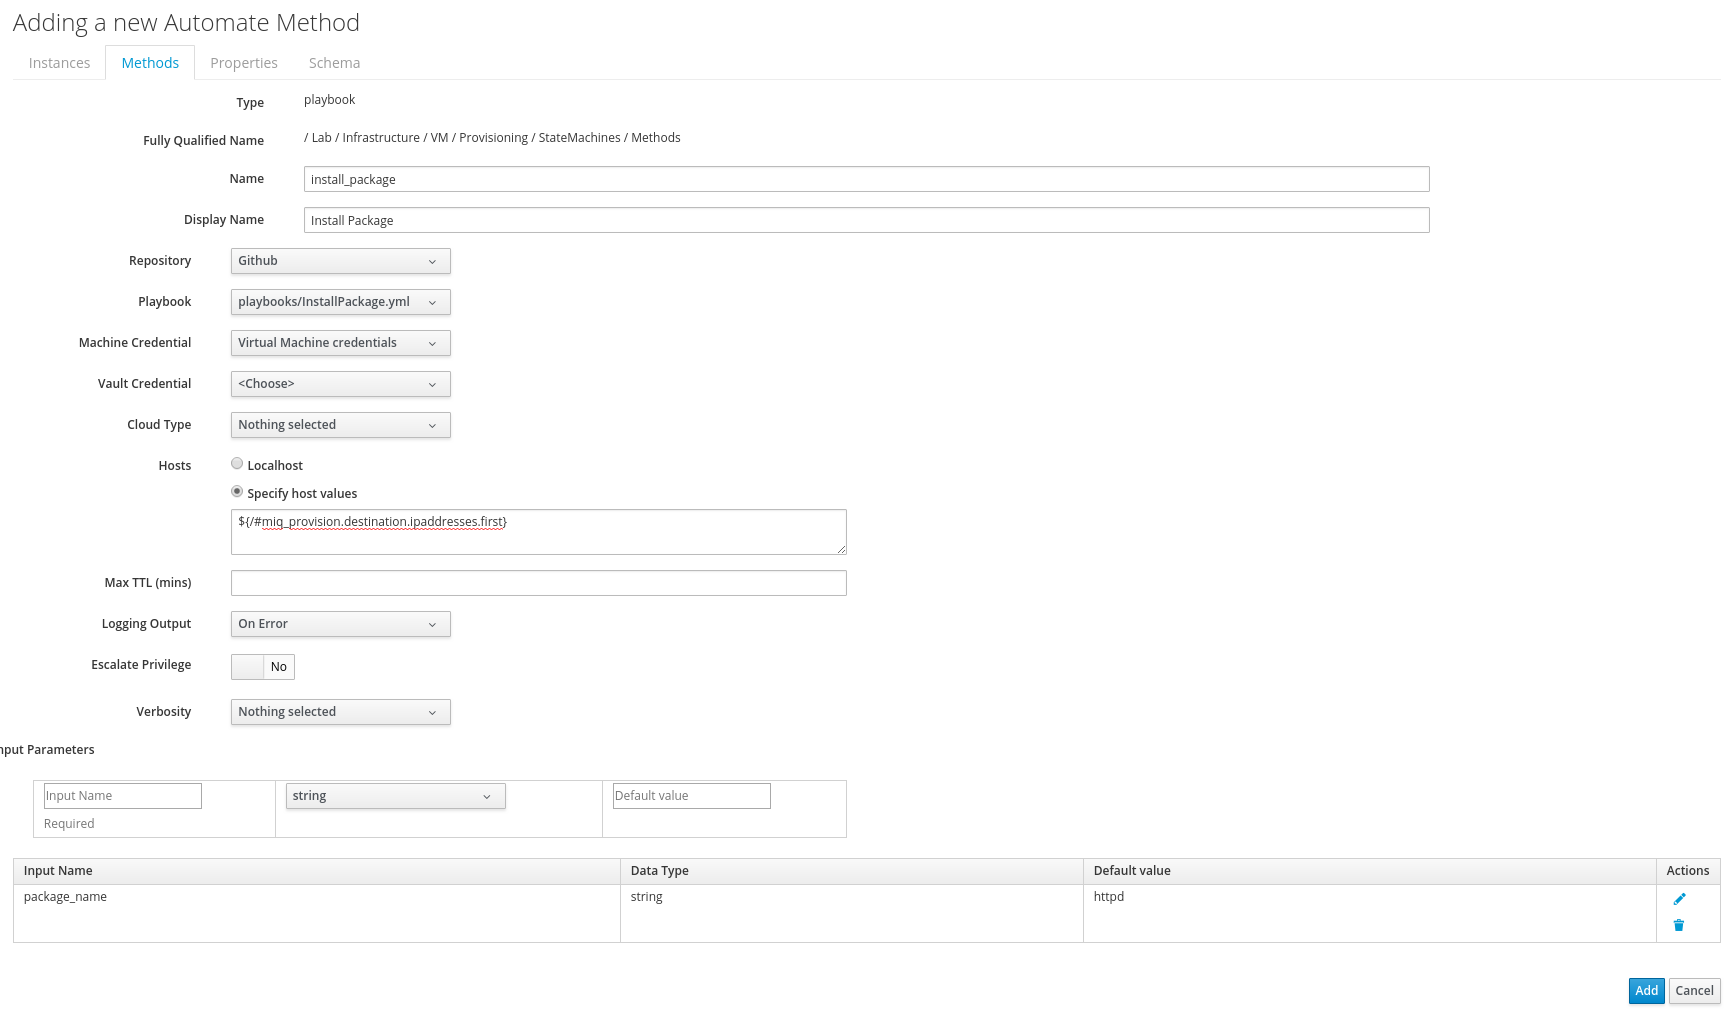
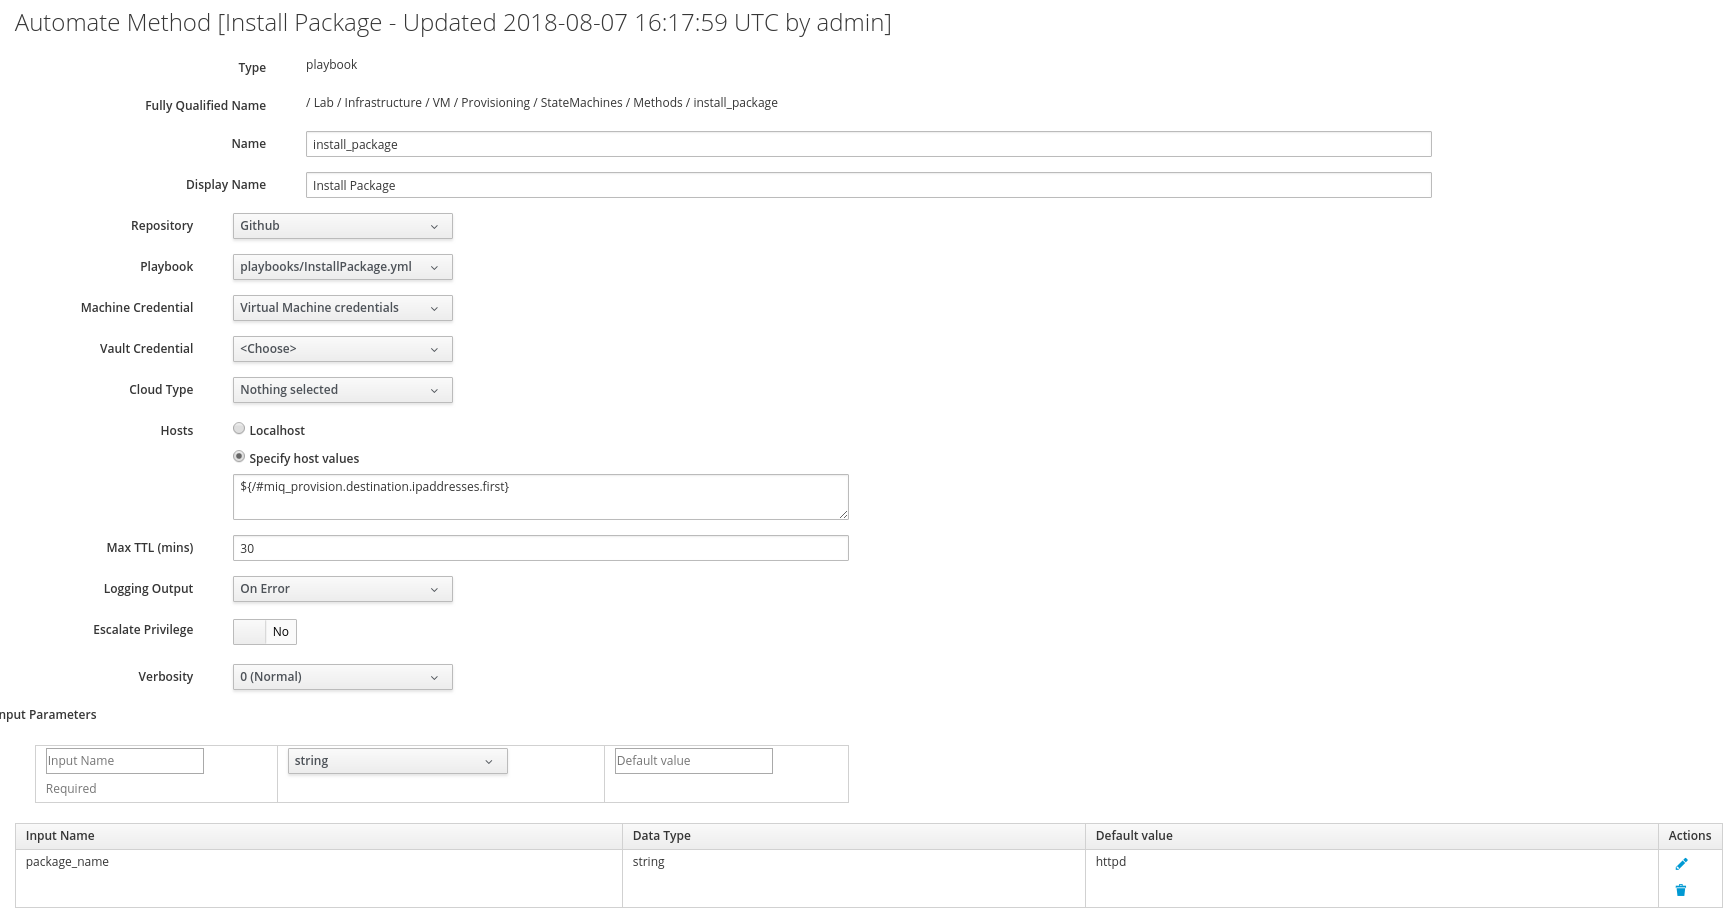
adding more details

diff --git a/cloudforms-and-ansible-better-together/lab/index.md b/cloudforms-and-ansible-better-together/lab/index.md
@@ -35,6 +35,12 @@
         - [Create improved Service Catalog Item](#create-improved-service-catalog-item)
         - [Update the Button definition](#update-the-button-definition)
         - [Test the improved Button](#test-the-improved-button)
+    - [Run an Ansible Playbook during VM provisioning](#run-an-ansible-playbook-during-vm-provisioning)
+        - [Create a new Automate Domain](#create-a-new-automate-domain)
+        - [Copy VM Provisioning State Machine](#copy-vm-provisioning-state-machine)
+        - [Copy CheckProvisioned Method](#copy-checkprovisioned-method)
+        - [Create the Ansible Playbook Method](#create-the-ansible-playbook-method)
+        - [Modify the Schema](#modify-the-schema)
     - [Build a Service Catalog to create and delete users](#build-a-service-catalog-to-create-and-delete-users)
         - [Create a Service Catalog Item for the Playbook](#create-a-service-catalog-item-for-the-playbook)
         - [Order the "create user" Service Catalog Item](#order-the-create-user-service-catalog-item)
@@ -999,6 +1005,158 @@ As the last step, we have to change the definition of our button, to point to th
 This concludes this part of the Ansible lab.
 
 :+1: ***OPTIONAL*** Feel free to repeat this part of the lab with a different package name. You could use "screen" as an example instead of httpd - or some other package you want to install.
+
+## Run an Ansible Playbook during VM provisioning
+
+With the integration of Ansible into CloudForms, we want to make it easier for customers and partners to modify out of the box behavior and make it easy to integrate with third party solutions.
+
+In this part of the lab, we want to run an Ansible Playbook during VM provisioning to show how to modify the State Machine and how we can use Ansible Playbooks.
+
+### Create a new Automate Domain
+
+Since the Automate Domains shipped with CloudForms are read only, we have to create our own Domain first.
+
+1. Navigate to ***Automation*** -> ***Automate***
+
+    ![Navigate to Automate](../../common/img/navigate-to-automate.png)
+
+1. Click on ***Configuration*** -> ***Add a new Domain***
+
+    ![add new automate domain](../../common/img/add-new-automate-domain.png)
+
+1. Enter the following details:
+
+    ***Name:*** Lab
+
+    ***Description:*** Lab Domain
+
+    ***Enabled:*** Check
+
+    ![add new lab domain](../../common/img/add-new-lab-automate-domain.png)
+
+1. Click ***Add***
+
+### Copy VM Provisioning State Machine
+
+To be able to make changes to the State Machine, we have to copy it to our writeable Domain first.
+
+1. Navigate to the VM Provisioning State Machine:
+
+    ***ManageIQ*** -> ***Infrastructure*** -> ***VM*** -> ***Provisioning*** -> ***StateMachines*** -> ***VMProvision_VM*** -> ***Provision VM from Template (template)***
+
+    ![navigate to provision from template](../../common/img/navigate-to-provision-vm-from-template.png)
+
+1. Click on ***Configuration*** -> ***Copy this Instance***
+
+    ![copy provision from template instance](../../common/img/copy-provivision-vm-from-template-instance.png)
+
+    :warning: ***WARNING*** Make sure you highlight the "Provision VM from Template (template)" instance when initiating the copy!
+
+1. Accept the defaults when confirming the copy
+
+    ![copy prevision from](../../common/img/copy-provision-instance.png)
+
+1. Click ***Copy*** to confirm
+
+1. After the copy was completed, you should see a confirmation page
+
+    ![confirmation of copy](../../common/img/confirmation-copy-provision-instance.png)
+
+### Copy CheckProvisioned Method
+
+The out of the box code of CloudForms will assume a VM was properly created, when it was successfully copied. Since we want to run an Ansible Playbook inside the deployed Virtual Machine, we have to add an additional check. The State Machine should only continue if the VM has an IP address assigned.
+
+1. We also need a copy of the CheckProvisioned method, to do that, navigate to     ***ManageIQ*** -> ***Infrastructure*** -> ***VM*** -> ***Provisioning*** -> ***StateMachines*** -> ***Methods*** -> ***CheckProvisioned (check_provisioned)***
+
+    ![navigate to check provisioned](../../common/img/navgiate-to-checkprovisioned.png)
+
+1. Click on ***Configuration*** -> ***Copy this Method***
+
+    ![copy checkprovisioned Method](../../common/img/copy-check-provisioned-method.png)
+
+1. Keep the settings unmodified and click on ***Copy***
+
+    ![copy checkprovisioned Method details](../../common/img/copy-check-provisioned-method-details.png)
+
+1. After the copy was created, you should see a confirmation message
+
+    ![copy checkprovisioned confirmation](../../common/img/copy-check-provisioned-confirmation.png)
+
+TODO: Add instructions on how to change the code
+
+### Create the Ansible Playbook Method
+
+Starting with CloudForms 4.6 we can create Methods of type "Playbook" which, instead of running Ruby code, execute an Ansible Playbook.
+
+1. Since we're already in the correct folder, let's create a new Method to run an Ansible Playbook now. Click on ***Configuration*** -> ***Add a new Method***
+
+    ![add new Ansible method](../../common/img/add-new-ansible-method.png)
+
+1. Switch the Method Type to "Playbook"
+
+    ![select playbook method type](../../common/img/select-ansible-method-type.png)
+
+1. Use the following details to fill out the form.
+
+    ***Name:*** install_package
+
+    ***Display Name:*** Intall Package
+
+    ***Repository:*** Github
+
+    ***Playbook:*** playbooks/InstallPackage.yml
+
+    ***Machine Credentials:*** VIrtual Machine Credentials
+
+    ***Hosts:*** Specify host values and enter the following string into the text field:
+
+        ${/#miq_provision.destination.ipaddresses.first}
+
+    :warning: ***WARNING*** Pay attention to the special characters or the Playbook will not be executed on the correct Virtual Machine! The expression will configure CloudForms to use the first IP addresses of the provisioned Virtual Machine as the limit parameter when executing the Playbook.
+
+    ***Max TTL (mins):*** 30
+
+1. Enter the following ***Input Parameters***:
+
+    ***Input Name:*** package_name
+
+    ***Default Value:*** httpd
+
+    :warning: ***WARNING*** Don't forget to click on the blue plus (+) icon to save the Input Parameter
+
+1. Click ***Add*** to create the Ansible Playbook Method
+
+    ![create ansible playbook method](../../common/img/create-ansible-playbook-method.png)
+
+1. To be able to call the Method from a StateMachine, we need an associated Instance. Click on the ***Instances*** tab and ***Configuration*** -> ***Add a new Instance***
+
+    ![add new playbook instance](../../common/img/add-new-playbook-instance.png)
+
+1. Enter the following details into the Dialog:
+
+    ***Name:*** install_package
+
+    ***Display Name:*** Install Package
+
+    In the table search the row "execute" and put "install_package" into the "value" field
+
+    ![add execute value](../../common/img/add-playbook-instance-execute-value.png)
+
+1. Click ***Add*** to save the Instance
+
+### Modify the Schema
+
+To run the Ansible Playbook during Virtual Machine Provisioning, we have to add an additional state to the State Machine. 
+
+1. Switch to the ***Schema*** tab of the page
+
+    ![edit provision class schema](../../common/img/switch-to-schema-edit.png)
+
+1. Click on ***Configuration*** -> ***Edit selected Schema***
+
+    ![edit selected schema](../../common/img/edit-provision-class-schema.png)
+
+TODO: Missing steps here
 
 ## Build a Service Catalog to create and delete users
 
